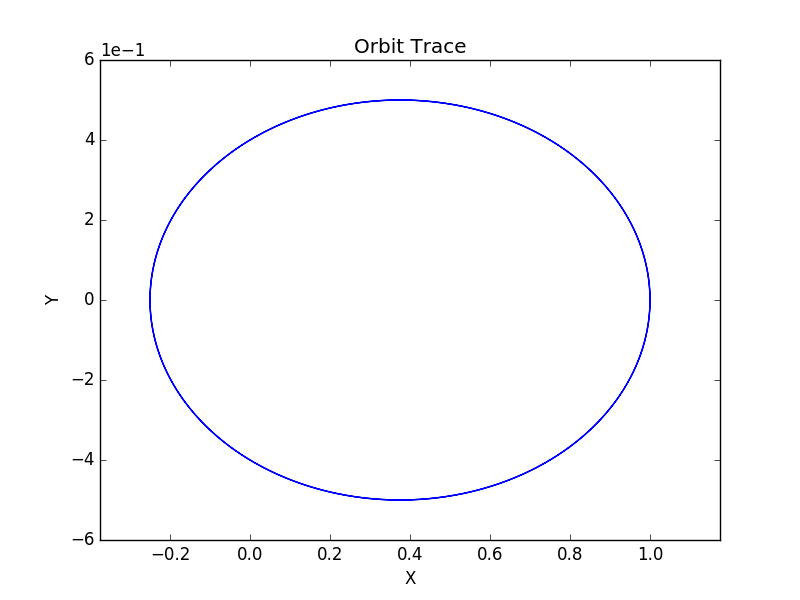
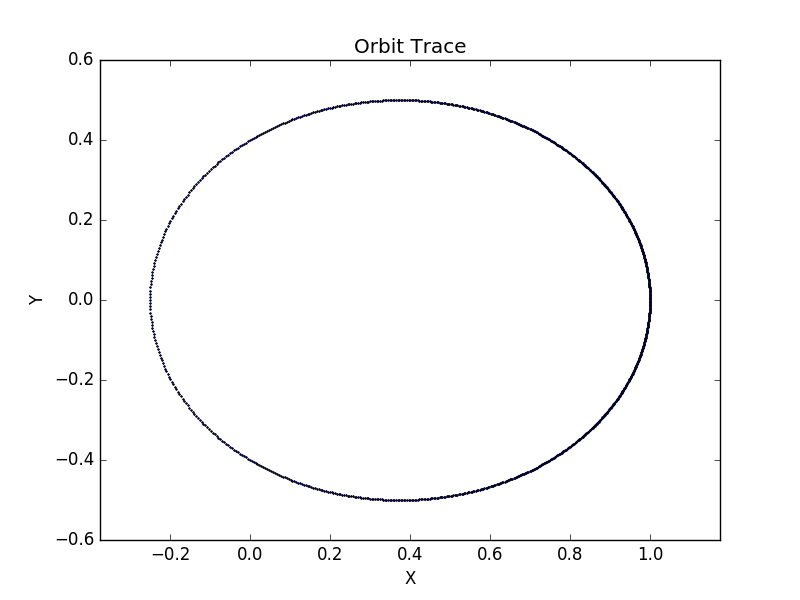
simple_plot.py

diff --git a/simple_plot.py b/simple_plot.py
@@ -1,0 +1,101 @@
+#!/usr/bin/env python3
+
+import numpy as np
+import matplotlib.pyplot as pl
+import click
+
+
+"""
+Usage: simple_plot.py [OPTIONS] DATAFILE
+
+  Read two columns of data from DATAFILE and plot.
+
+Options:
+  --columns INTEGER...     Two columns of the data file to plot.
+  --del-header INTEGER     Number of header lines to delete.
+  --labels <TEXT TEXT>...  Labels of X and Y axes.
+  --xlim <FLOAT FLOAT>...  Limit of X axis.
+  --ylim <FLOAT FLOAT>...  Limit of Y axis.
+  --title TEXT             Title of the figure.
+  --figname TEXT           Name of the figure to save (default: simple_plot).
+  --figtype TEXT           Format of the figure to save (default: eps).
+  --sci                    Apply scientific notation to the axes.
+  --equal                  Same aspect for X and Y axes.
+  --show                   Show the figure.
+
+Examples:
+  $ ./simple_plot.py twobody_output.dat --show --columns 2 3 --equal \
+    --del-header 1 --title 'Orbit Trace' --figname 'orbit_trace'
+"""
+
+
+def read_two_col(filename, col0, col1, header):
+    """Read two columns of data in a file"""
+    f = open(filename, 'r')
+    if header > 0:
+        for i in range(header):
+            f.readline()
+    x = []
+    y = []
+    for line in f:
+        line = line.strip()
+        columns = line.split()
+        x.append(np.longdouble(columns[col0]))
+        y.append(np.longdouble(columns[col1]))
+    f.close()
+    return x, y
+
+
+@click.group()
+def simple_plot():
+    pass
+
+
+@simple_plot.command()
+@click.option('--columns', nargs=2, default=(0, 1),
+              help='Two columns of the data file to plot.')
+@click.option('--del-header', default=0,
+              help='Number of header lines to delete.')
+@click.option('--labels', nargs=2, default=('X', 'Y'),
+              help='Labels of X and Y axes.')
+@click.option('--xlim', nargs=2, type=(float, float), default=(0, 0),
+              help='Limit of X axis.')
+@click.option('--ylim', nargs=2, type=(float, float), default=(0, 0),
+              help='Limit of Y axis.')
+@click.option('--title', default='', help='Title of the figure.')
+@click.option('--figname', default='simple_plot',
+              help='Name of the figure to save (default: simple_plot).')
+@click.option('--figtype', default='eps',
+              help='Format of the figure to save (default: eps).')
+@click.option('--sci', is_flag=True,
+              help='Apply scientific notation to the axes.')
+@click.option('--equal', is_flag=True,
+              help='Same aspect for X and Y axes.')
+@click.option('--show', is_flag=True,
+              help='Show the figure.')
+@click.argument('datafile')
+def plot_fig(datafile, columns, del_header, labels, xlim, ylim,
+             title, figname, sci, equal, show, figtype):
+    """Read two columns of data from DATAFILE and plot."""
+    x, y = read_two_col(datafile, columns[0], columns[1], del_header)
+    pl.figure(figsize=(8, 6))
+    pl.plot(x, y, 'o', markersize=1.0, linestyle='None')
+    pl.xlabel(labels[0])
+    pl.ylabel(labels[1])
+    if not (xlim[0] == xlim[1]):
+        pl.xlim(xlim)
+    if not (ylim[0] == ylim[1]):
+        pl.ylim(ylim)
+    if sci:
+        pl.ticklabel_format(style='sci', scilimits=(0, 0))
+    if equal:
+        pl.axis('equal')
+    pl.title(title)
+    fig_name = figname + '.' + figtype
+    pl.savefig(fig_name)
+    if show:
+        pl.show()
+
+
+if __name__ == '__main__':
+    plot_fig()
